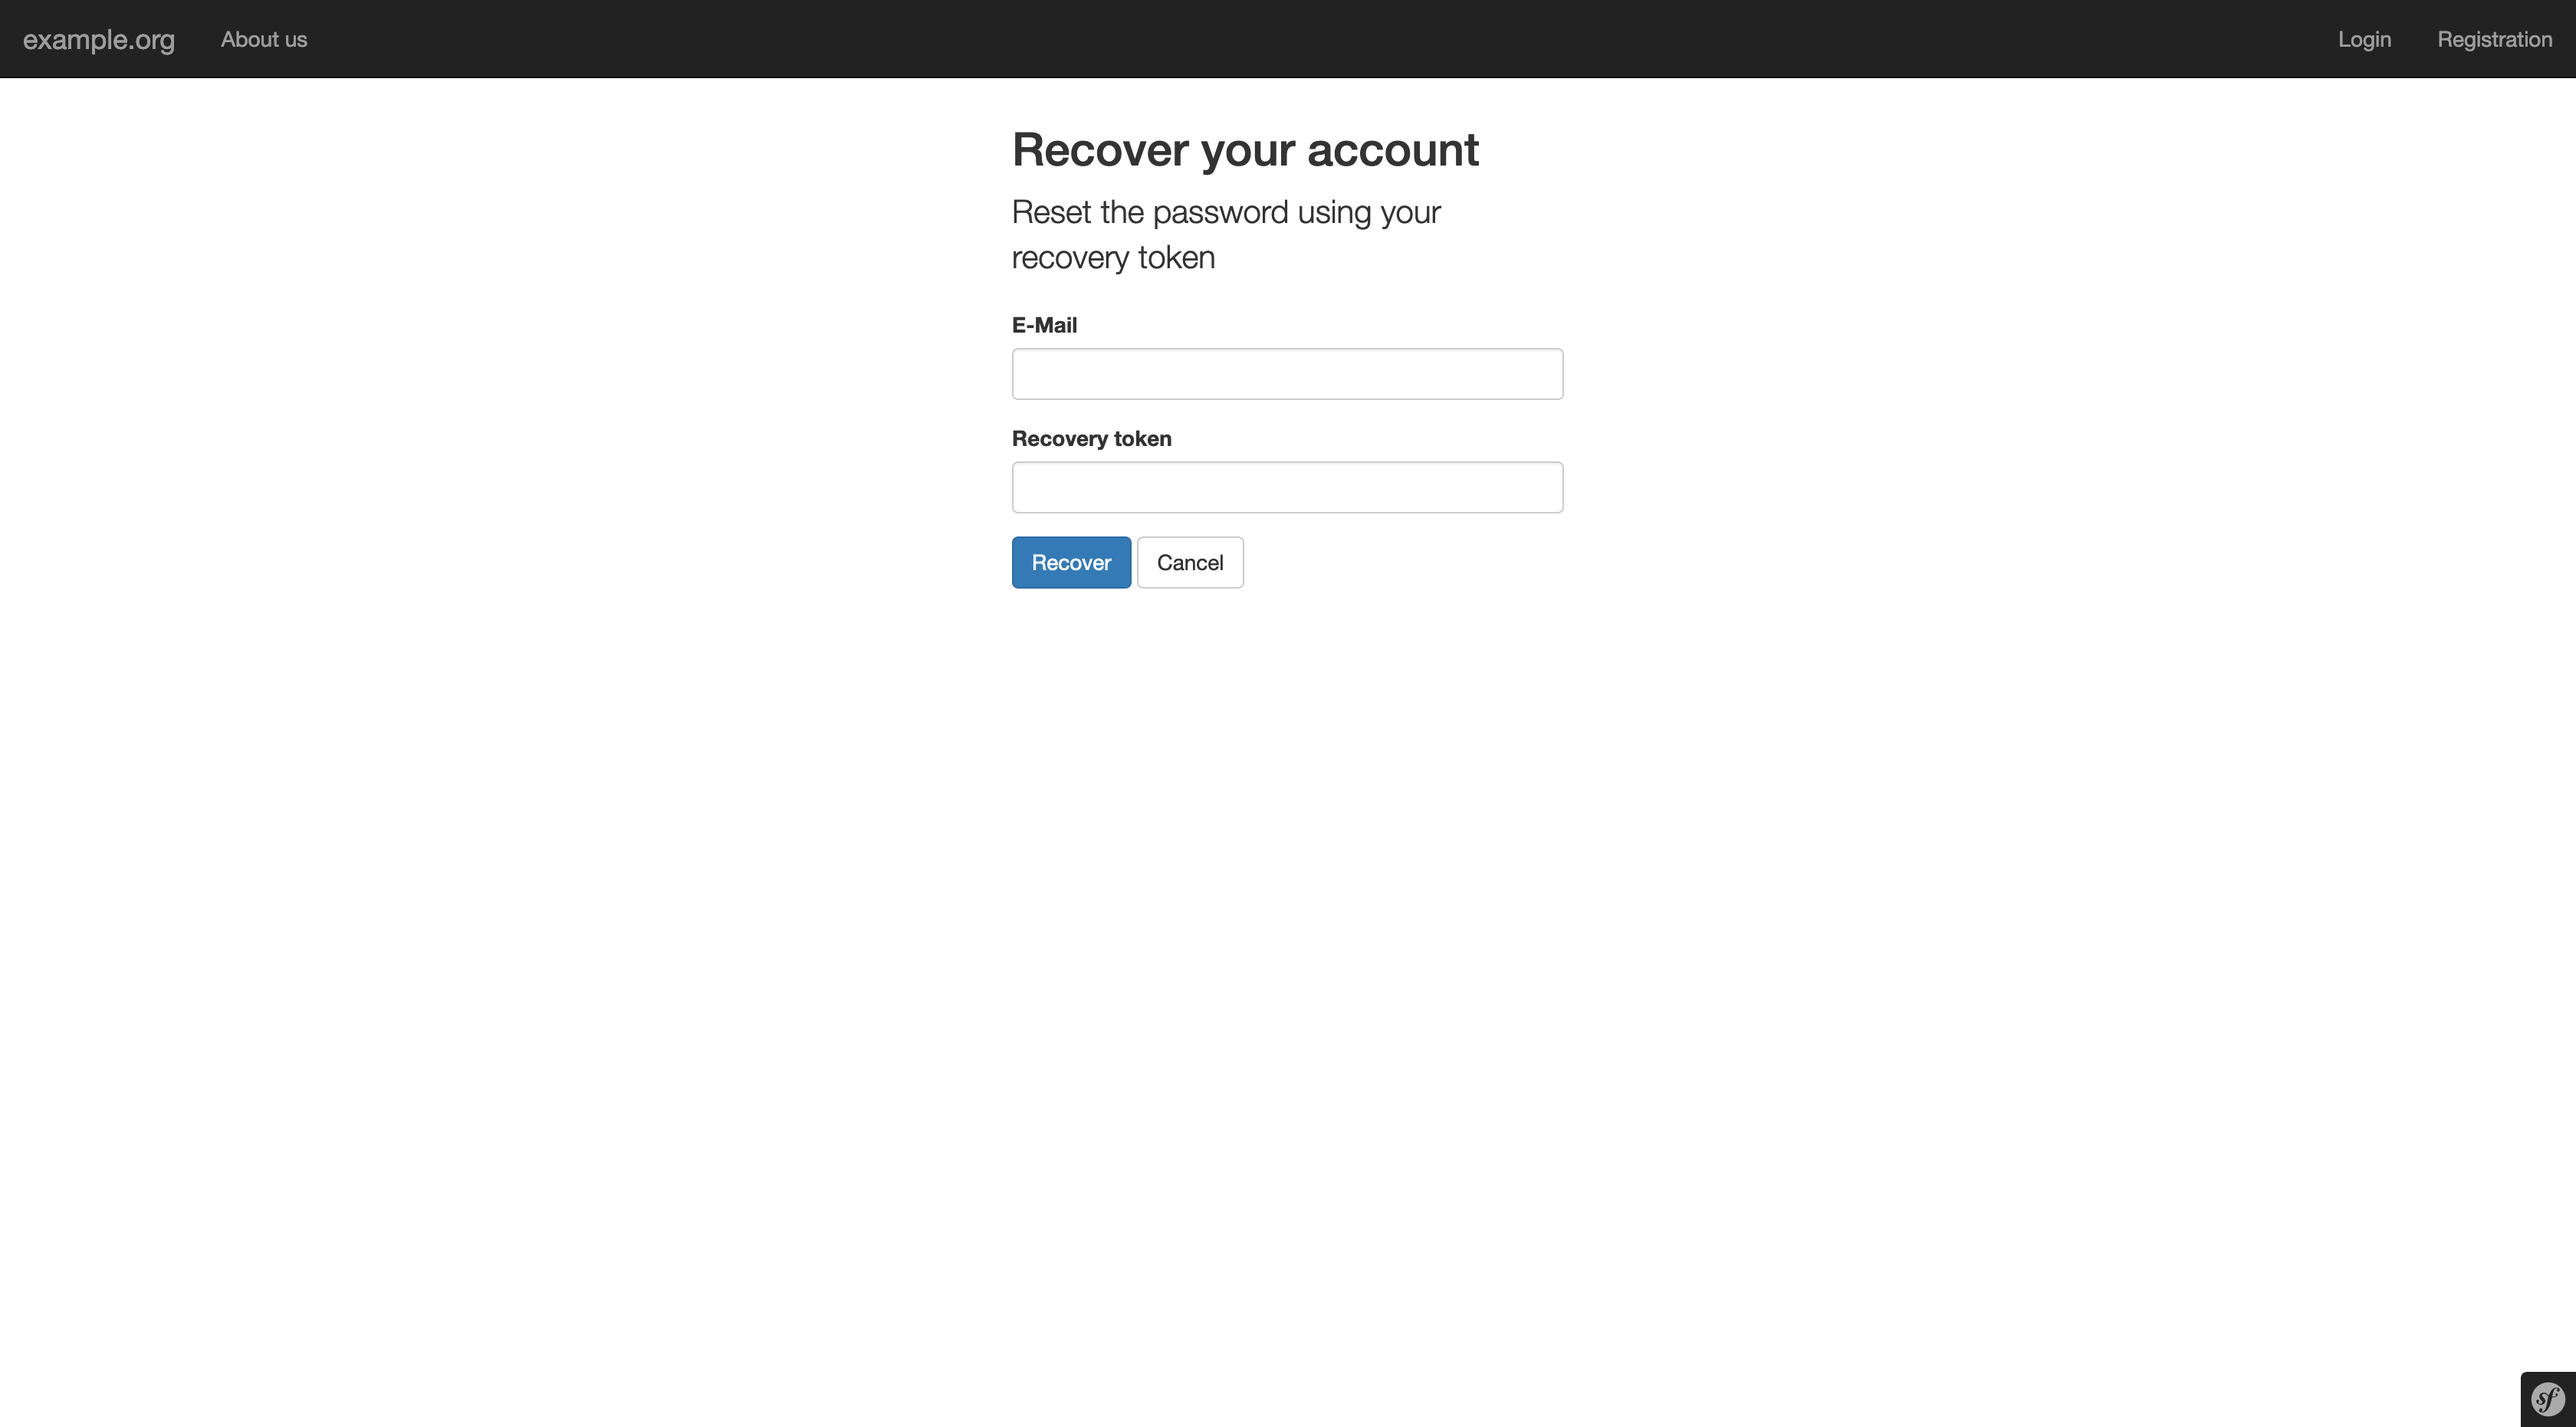
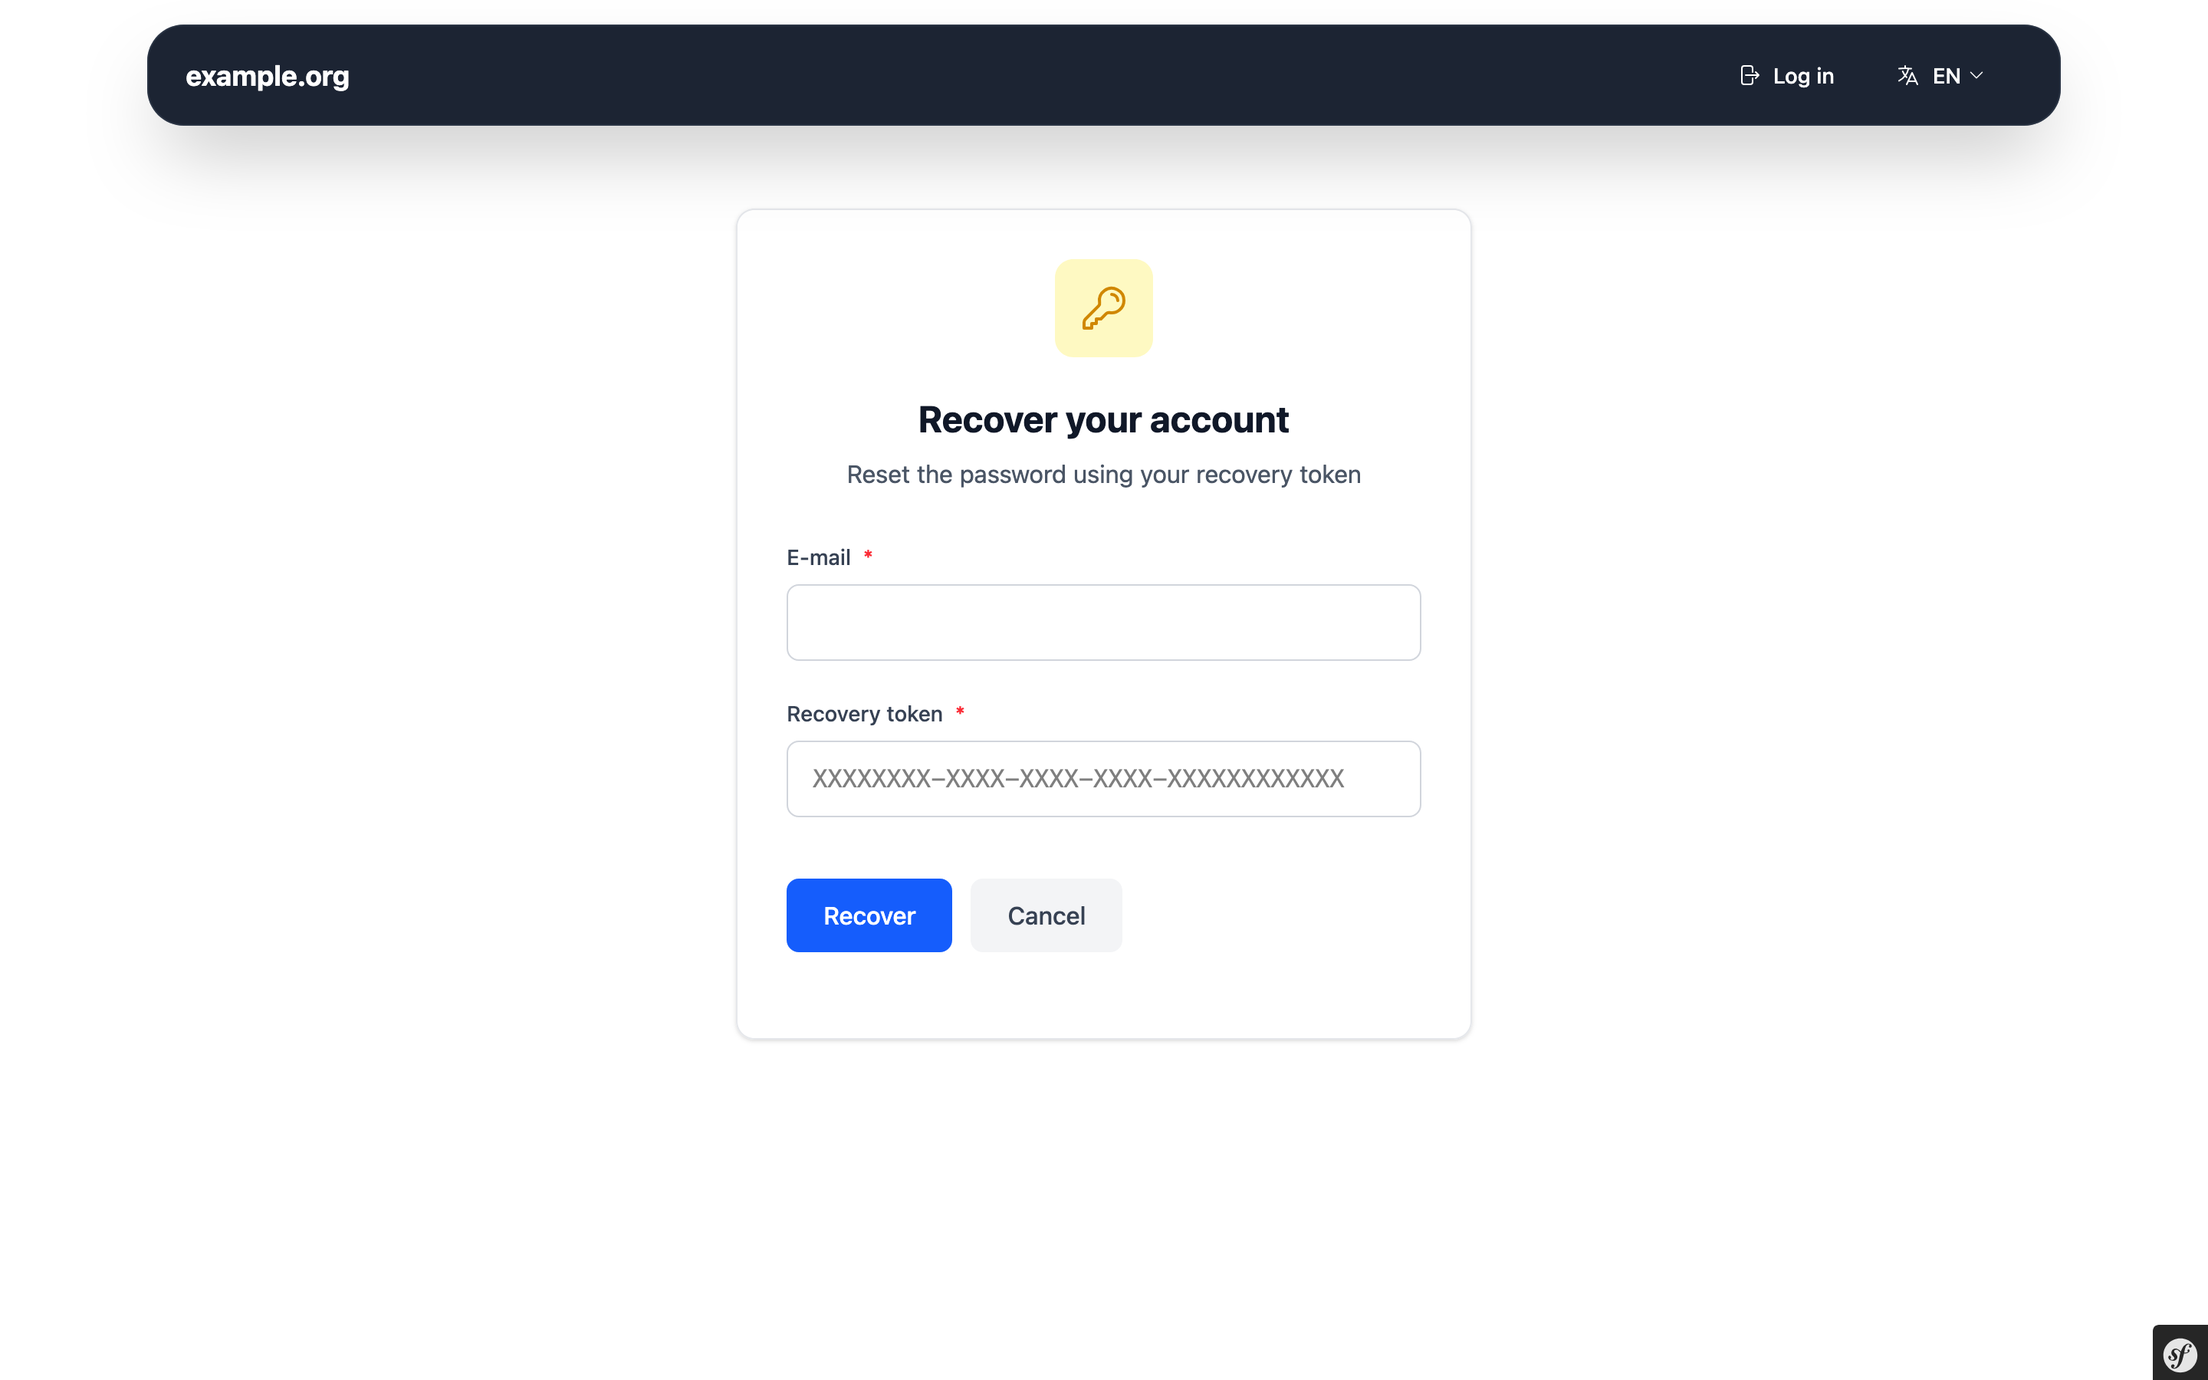
📝 Update screenshots for documentation (#829)

diff --git a/docs/screenshots/index.md b/docs/screenshots/index.md
@@ -1,42 +1,41 @@
 # Screenshots
 
-Some screenshots of Userli features
+Here you can find screenshots of the web interface of Userli.
 
-## Account management
+## Start page
 
-Change password and delete account
+![start](../assets/images/start.png)
 
-![account](../assets/images/account.png)
+## Register
 
+![register](../assets/images/register.png)
 
-## Admin Frontend
+## Login
 
-Manage domains, users, aliases and more
+![login](../assets/images/login.png)
 
-![admin](../assets/images/admin.png)
-
-## Invite friends
-
-Invite codes
+## Invite codes
 
 ![voucher](../assets/images/voucher.png)
 
-## Alias addresses
-
-Manage alias addresses
+## Aliases
 
 ![alias](../assets/images/alias.png)
 
-## Recover lost password
+## Account settings
 
-Manage recovery token
+![account](../assets/images/account.png)
+
+## Account settings - Recovery Code
 
 ![manage_recovery_token](../assets/images/manage_recovery_token.png)
 
-Add recovery token
-
 ![new_recovery_token](../assets/images/new_recovery_token.png)
 
-Use recovery token
+## Password Recovery
 
 ![use_recovery_token](../assets/images/recovery.png)
+
+## Admin Frontend
+
+![admin](../assets/images/admin.png)
